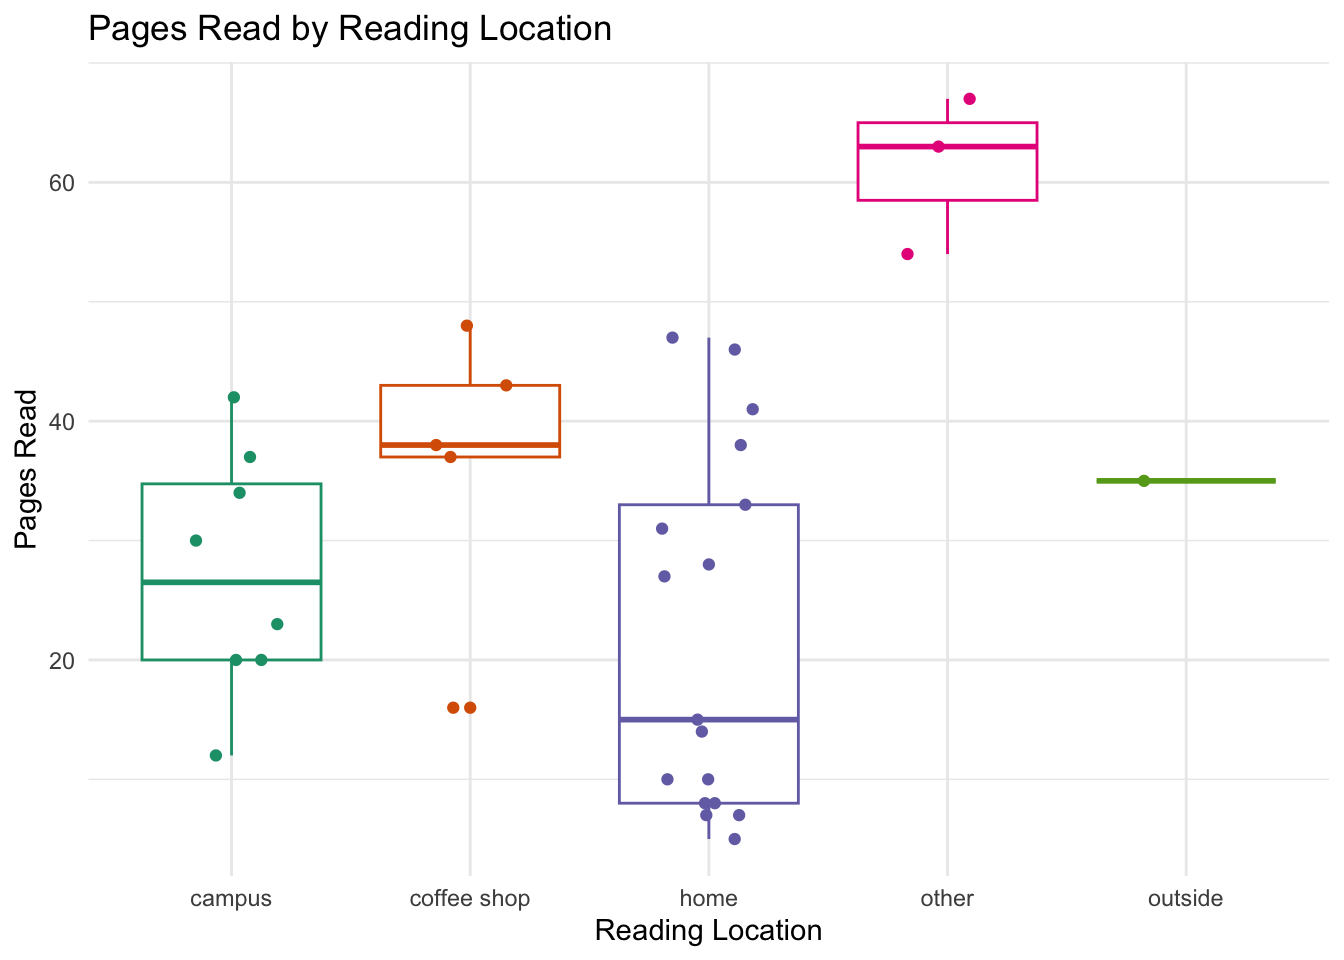
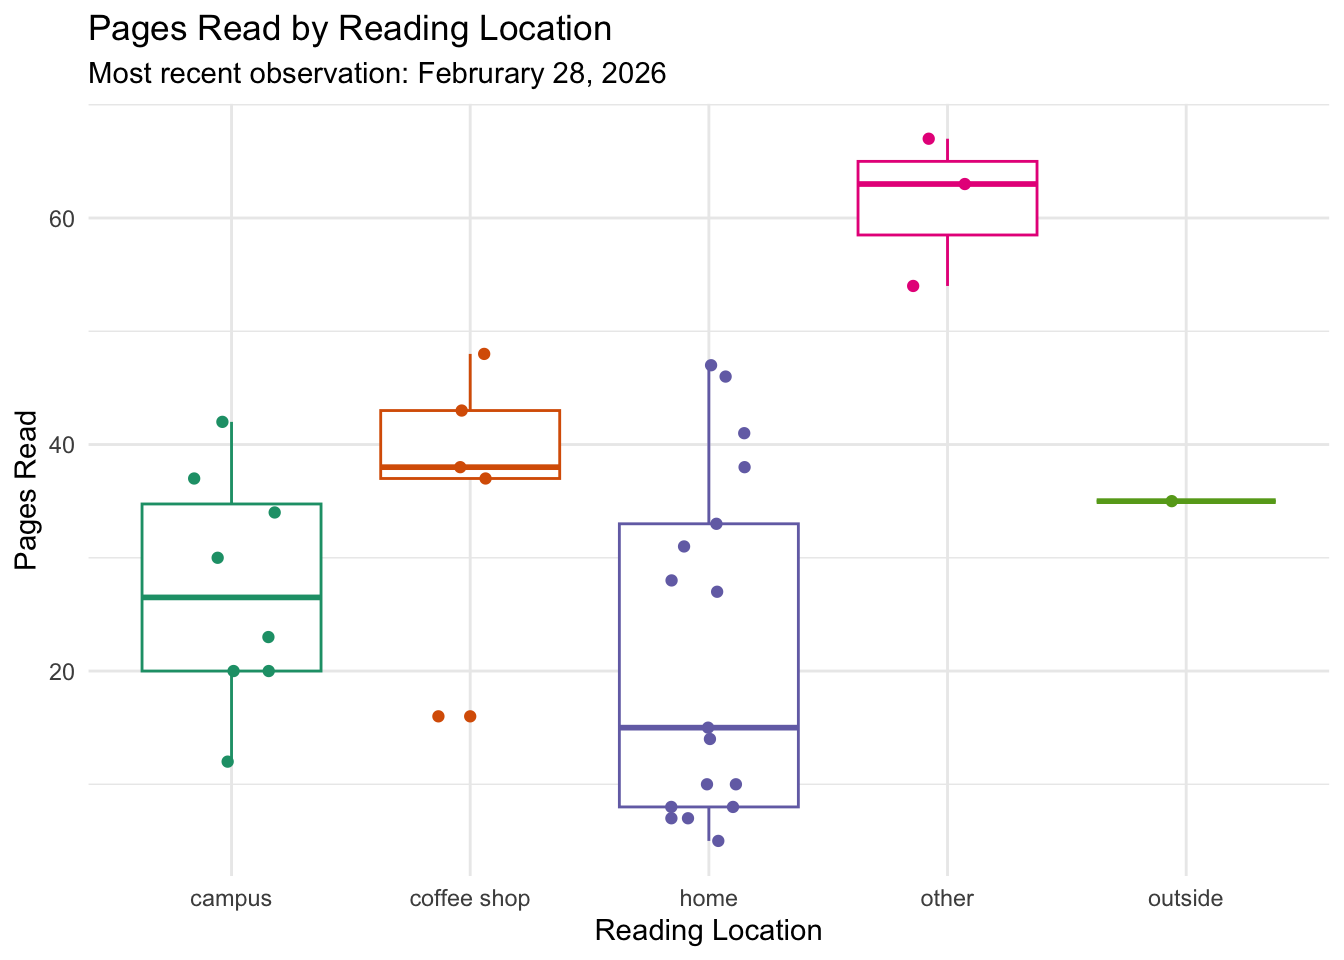
Creating informative captions for my continuous and categorical personal data visualizations

diff --git a/docs/code/index.html b/docs/code/index.html
@@ -87,9 +87,9 @@ pre > code.sourceCode > span > a:first-child::before { text-decoration: underlin
   <li><a href="#set-up" id="toc-set-up" class="nav-link active" data-scroll-target="#set-up">Set Up</a></li>
   <li><a href="#problem-1.-slough-soil-salinity" id="toc-problem-1.-slough-soil-salinity" class="nav-link" data-scroll-target="#problem-1.-slough-soil-salinity">Problem 1. Slough soil salinity</a>
   <ul class="collapse">
-  <li><a href="#a.-an-appropriate-test" id="toc-a.-an-appropriate-test" class="nav-link" data-scroll-target="#a.-an-appropriate-test">A. An appropriate test</a></li>
-  <li><a href="#b.-create-a-visualization" id="toc-b.-create-a-visualization" class="nav-link" data-scroll-target="#b.-create-a-visualization">B. Create a visualization</a></li>
-  <li><a href="#c.-check-your-assumptions-and-run-your-test" id="toc-c.-check-your-assumptions-and-run-your-test" class="nav-link" data-scroll-target="#c.-check-your-assumptions-and-run-your-test">C. Check your assumptions and run your test</a>
+  <li><a href="#a.-an-appropriate-test" id="toc-a.-an-appropriate-test" class="nav-link" data-scroll-target="#a.-an-appropriate-test">a. An appropriate test</a></li>
+  <li><a href="#b.-create-a-visualization" id="toc-b.-create-a-visualization" class="nav-link" data-scroll-target="#b.-create-a-visualization">b. Create a visualization</a></li>
+  <li><a href="#c.-check-your-assumptions-and-run-your-test" id="toc-c.-check-your-assumptions-and-run-your-test" class="nav-link" data-scroll-target="#c.-check-your-assumptions-and-run-your-test">c.&nbsp;Check your assumptions and run your test</a>
   <ul class="collapse">
   <li><a href="#check-for-linear-relationship-between-variables-and-monotonic-relationship-between-variables" id="toc-check-for-linear-relationship-between-variables-and-monotonic-relationship-between-variables" class="nav-link" data-scroll-target="#check-for-linear-relationship-between-variables-and-monotonic-relationship-between-variables">Check for linear relationship between variables and monotonic relationship between variables</a></li>
   <li><a href="#check-that-variables-are-continuous-and-normally-distributed" id="toc-check-that-variables-are-continuous-and-normally-distributed" class="nav-link" data-scroll-target="#check-that-variables-are-continuous-and-normally-distributed">Check that variables are continuous and normally distributed</a></li>
@@ -99,7 +99,15 @@ pre > code.sourceCode > span > a:first-child::before { text-decoration: underlin
   <li><a href="#e.-test-implications" id="toc-e.-test-implications" class="nav-link" data-scroll-target="#e.-test-implications">e. Test implications</a></li>
   <li><a href="#f.-double-check-your-work" id="toc-f.-double-check-your-work" class="nav-link" data-scroll-target="#f.-double-check-your-work">f.&nbsp;Double check your work</a></li>
   </ul></li>
-  <li><a href="#problem-2.-personal-data" id="toc-problem-2.-personal-data" class="nav-link" data-scroll-target="#problem-2.-personal-data">Problem 2. Personal Data</a></li>
+  <li><a href="#problem-2.-personal-data" id="toc-problem-2.-personal-data" class="nav-link" data-scroll-target="#problem-2.-personal-data">Problem 2. Personal Data</a>
+  <ul class="collapse">
+  <li><a href="#a.-updating-your-visualizations" id="toc-a.-updating-your-visualizations" class="nav-link" data-scroll-target="#a.-updating-your-visualizations">a. Updating your visualizations</a>
+  <ul class="collapse">
+  <li><a href="#visualization-of-reading-location-categorical-predictor-variable-vs-pages-read-response-variable" id="toc-visualization-of-reading-location-categorical-predictor-variable-vs-pages-read-response-variable" class="nav-link" data-scroll-target="#visualization-of-reading-location-categorical-predictor-variable-vs-pages-read-response-variable">Visualization of reading location (categorical predictor variable) vs pages read (response variable)</a></li>
+  <li><a href="#visualization-of-reading-duration-continuous-predictor-variable-vs-pages-read-response-variable" id="toc-visualization-of-reading-duration-continuous-predictor-variable-vs-pages-read-response-variable" class="nav-link" data-scroll-target="#visualization-of-reading-duration-continuous-predictor-variable-vs-pages-read-response-variable">Visualization of reading duration (continuous predictor variable) vs pages read (response variable)</a></li>
+  </ul></li>
+  <li><a href="#b.-captions" id="toc-b.-captions" class="nav-link" data-scroll-target="#b.-captions">b. Captions</a></li>
+  </ul></li>
   </ul>
 </nav>
 </div>
@@ -153,11 +161,11 @@ pre > code.sourceCode > span > a:first-child::before { text-decoration: underlin
 <section id="problem-1.-slough-soil-salinity" class="level1">
 <h1>Problem 1. Slough soil salinity</h1>
 <section id="a.-an-appropriate-test" class="level2">
-<h2 class="anchored" data-anchor-id="a.-an-appropriate-test">A. An appropriate test</h2>
+<h2 class="anchored" data-anchor-id="a.-an-appropriate-test">a. An appropriate test</h2>
 <p>The appropriate tests to determine the strength of the relationship between salinity and California pickleweed biomass are the Pearson’s correlation (r) test and Spearman’s rank correlation (p) test. The Pearson’s correlation is a parametric test that measures the strength of the relationship between salinity and biomass and assumes that observations are independent and both variables are continuous and normally distributed with a linear relationship. The Spearman rank correlation is non-parametric and measures the monotonic relationship between salinity and biomass for independent observations by evaluating whether the rank order of soil salinity values corresponds with the rank order of pickleweed biomass values (this test does not assume normality or a linear relationship).</p>
 </section>
 <section id="b.-create-a-visualization" class="level2">
-<h2 class="anchored" data-anchor-id="b.-create-a-visualization">B. Create a visualization</h2>
+<h2 class="anchored" data-anchor-id="b.-create-a-visualization">b. Create a visualization</h2>
 <div class="cell">
 <div class="code-copy-outer-scaffold"><div class="sourceCode cell-code" id="cb2"><pre class="sourceCode r code-with-copy"><code class="sourceCode r"><span id="cb2-1"><a href="#cb2-1" aria-hidden="true" tabindex="-1"></a><span class="co"># base layer: ggplot </span></span>
 <span id="cb2-2"><a href="#cb2-2" aria-hidden="true" tabindex="-1"></a><span class="fu">ggplot</span>(<span class="at">data =</span> salinity, <span class="co"># salinity data frame</span></span>
@@ -182,7 +190,7 @@ pre > code.sourceCode > span > a:first-child::before { text-decoration: underlin
 </div>
 </section>
 <section id="c.-check-your-assumptions-and-run-your-test" class="level2">
-<h2 class="anchored" data-anchor-id="c.-check-your-assumptions-and-run-your-test">C. Check your assumptions and run your test</h2>
+<h2 class="anchored" data-anchor-id="c.-check-your-assumptions-and-run-your-test">c.&nbsp;Check your assumptions and run your test</h2>
 <section id="check-for-linear-relationship-between-variables-and-monotonic-relationship-between-variables" class="level3">
 <h3 class="anchored" data-anchor-id="check-for-linear-relationship-between-variables-and-monotonic-relationship-between-variables">Check for linear relationship between variables and monotonic relationship between variables</h3>
 <div class="cell">
@@ -306,10 +314,14 @@ sample estimates:
 </section>
 <section id="problem-2.-personal-data" class="level1">
 <h1>Problem 2. Personal Data</h1>
+<section id="a.-updating-your-visualizations" class="level2">
+<h2 class="anchored" data-anchor-id="a.-updating-your-visualizations">a. Updating your visualizations</h2>
 <div class="cell">
 <div class="code-copy-outer-scaffold"><div class="sourceCode cell-code" id="cb10"><pre class="sourceCode r code-with-copy"><code class="sourceCode r"><span id="cb10-1"><a href="#cb10-1" aria-hidden="true" tabindex="-1"></a>my_clean_data <span class="ot">&lt;-</span> my_data <span class="sc">|&gt;</span> <span class="co"># create object my_clean_data from my_data</span></span>
 <span id="cb10-2"><a href="#cb10-2" aria-hidden="true" tabindex="-1"></a>  <span class="fu">clean_names</span>()</span></code></pre></div><button title="Copy to Clipboard" class="code-copy-button"><i class="bi"></i></button></div>
 </div>
+<section id="visualization-of-reading-location-categorical-predictor-variable-vs-pages-read-response-variable" class="level3">
+<h3 class="anchored" data-anchor-id="visualization-of-reading-location-categorical-predictor-variable-vs-pages-read-response-variable">Visualization of reading location (categorical predictor variable) vs pages read (response variable)</h3>
 <div class="cell">
 <div class="code-copy-outer-scaffold"><div class="sourceCode cell-code" id="cb11"><pre class="sourceCode r code-with-copy"><code class="sourceCode r"><span id="cb11-1"><a href="#cb11-1" aria-hidden="true" tabindex="-1"></a><span class="co"># base layer: ggplot </span></span>
 <span id="cb11-2"><a href="#cb11-2" aria-hidden="true" tabindex="-1"></a><span class="fu">ggplot</span>(<span class="at">data =</span> my_clean_data, <span class="co"># use clean data</span></span>
@@ -324,10 +336,11 @@ sample estimates:
 <span id="cb11-11"><a href="#cb11-11" aria-hidden="true" tabindex="-1"></a>             <span class="at">width =</span> <span class="fl">0.2</span>) <span class="sc">+</span> <span class="co"># narrowing width of jitter</span></span>
 <span id="cb11-12"><a href="#cb11-12" aria-hidden="true" tabindex="-1"></a><span class="fu">labs</span>(<span class="at">x =</span> <span class="st">"Reading Location"</span>, <span class="co"># x-axis title</span></span>
 <span id="cb11-13"><a href="#cb11-13" aria-hidden="true" tabindex="-1"></a>     <span class="at">y =</span> <span class="st">"Pages Read"</span>, <span class="co"># y-axis title</span></span>
-<span id="cb11-14"><a href="#cb11-14" aria-hidden="true" tabindex="-1"></a>     <span class="at">title =</span> <span class="st">"Pages Read by Reading Location"</span>) <span class="sc">+</span> <span class="co"># graph title</span></span>
-<span id="cb11-15"><a href="#cb11-15" aria-hidden="true" tabindex="-1"></a>   <span class="fu">scale_color_brewer</span>(<span class="at">palette =</span> <span class="st">"Dark2"</span>) <span class="sc">+</span> <span class="co"># use Dark2 color palette from colorbrewer project</span></span>
-<span id="cb11-16"><a href="#cb11-16" aria-hidden="true" tabindex="-1"></a>  <span class="fu">theme_minimal</span>() <span class="sc">+</span> <span class="co"># set theme different from default </span></span>
-<span id="cb11-17"><a href="#cb11-17" aria-hidden="true" tabindex="-1"></a>  <span class="fu">theme</span>(<span class="at">legend.position =</span> <span class="st">"none"</span>) <span class="co"># remove legend</span></span></code></pre></div><button title="Copy to Clipboard" class="code-copy-button"><i class="bi"></i></button></div>
+<span id="cb11-14"><a href="#cb11-14" aria-hidden="true" tabindex="-1"></a>     <span class="at">title =</span> <span class="st">"Pages Read by Reading Location"</span>, <span class="co"># graph title</span></span>
+<span id="cb11-15"><a href="#cb11-15" aria-hidden="true" tabindex="-1"></a>      <span class="at">subtitle =</span> <span class="st">"Most recent observation: Februrary 28, 2026"</span>) <span class="sc">+</span> <span class="co"># most recent date)</span></span>
+<span id="cb11-16"><a href="#cb11-16" aria-hidden="true" tabindex="-1"></a>   <span class="fu">scale_color_brewer</span>(<span class="at">palette =</span> <span class="st">"Dark2"</span>) <span class="sc">+</span> <span class="co"># use Dark2 color palette from colorbrewer project</span></span>
+<span id="cb11-17"><a href="#cb11-17" aria-hidden="true" tabindex="-1"></a>  <span class="fu">theme_minimal</span>() <span class="sc">+</span> <span class="co"># set theme different from default </span></span>
+<span id="cb11-18"><a href="#cb11-18" aria-hidden="true" tabindex="-1"></a>  <span class="fu">theme</span>(<span class="at">legend.position =</span> <span class="st">"none"</span>) <span class="co"># remove legend</span></span></code></pre></div><button title="Copy to Clipboard" class="code-copy-button"><i class="bi"></i></button></div>
 <div class="cell-output-display">
 <div>
 <figure class="figure">
@@ -336,6 +349,9 @@ sample estimates:
 </div>
 </div>
 </div>
+</section>
+<section id="visualization-of-reading-duration-continuous-predictor-variable-vs-pages-read-response-variable" class="level3">
+<h3 class="anchored" data-anchor-id="visualization-of-reading-duration-continuous-predictor-variable-vs-pages-read-response-variable">Visualization of reading duration (continuous predictor variable) vs pages read (response variable)</h3>
 <div class="cell">
 <div class="code-copy-outer-scaffold"><div class="sourceCode cell-code" id="cb12"><pre class="sourceCode r code-with-copy"><code class="sourceCode r"><span id="cb12-1"><a href="#cb12-1" aria-hidden="true" tabindex="-1"></a><span class="co">#base layer: ggplot </span></span>
 <span id="cb12-2"><a href="#cb12-2" aria-hidden="true" tabindex="-1"></a><span class="fu">ggplot</span>(<span class="at">data =</span> my_clean_data, <span class="co"># use my_clean_data</span></span>
@@ -347,8 +363,9 @@ sample estimates:
 <span id="cb12-8"><a href="#cb12-8" aria-hidden="true" tabindex="-1"></a>             <span class="at">alpha =</span> <span class="fl">0.7</span>) <span class="sc">+</span> <span class="co"># make points more transparent</span></span>
 <span id="cb12-9"><a href="#cb12-9" aria-hidden="true" tabindex="-1"></a>   <span class="fu">labs</span>(<span class="at">x =</span> <span class="st">"Reading Duration (minutes)"</span>, <span class="co"># x-axis title</span></span>
 <span id="cb12-10"><a href="#cb12-10" aria-hidden="true" tabindex="-1"></a>       <span class="at">y =</span> <span class="st">"Pages Read"</span>, <span class="co"># y-axis title</span></span>
-<span id="cb12-11"><a href="#cb12-11" aria-hidden="true" tabindex="-1"></a>       <span class="at">title =</span> <span class="st">"Longer Reading Sessions Lead to More Pages Read"</span>) <span class="sc">+</span> <span class="co"># descriptive title </span></span>
-<span id="cb12-12"><a href="#cb12-12" aria-hidden="true" tabindex="-1"></a>   <span class="fu">theme_bw</span>() <span class="co"># change theme from default</span></span></code></pre></div><button title="Copy to Clipboard" class="code-copy-button"><i class="bi"></i></button></div>
+<span id="cb12-11"><a href="#cb12-11" aria-hidden="true" tabindex="-1"></a>       <span class="at">title =</span> <span class="st">"Longer Reading Sessions Lead to More Pages Read"</span>, <span class="co"># graph title</span></span>
+<span id="cb12-12"><a href="#cb12-12" aria-hidden="true" tabindex="-1"></a>      <span class="at">subtitle =</span> <span class="st">"Most recent observation: Februrary 28, 2026"</span>) <span class="sc">+</span> <span class="co"># most recent date</span></span>
+<span id="cb12-13"><a href="#cb12-13" aria-hidden="true" tabindex="-1"></a>   <span class="fu">theme_bw</span>() <span class="co"># change theme from default</span></span></code></pre></div><button title="Copy to Clipboard" class="code-copy-button"><i class="bi"></i></button></div>
 <div class="cell-output-display">
 <div>
 <figure class="figure">
@@ -357,6 +374,13 @@ sample estimates:
 </div>
 </div>
 </div>
+</section>
+</section>
+<section id="b.-captions" class="level2">
+<h2 class="anchored" data-anchor-id="b.-captions">b. Captions</h2>
+<p>Figure 1. The distribution of pages read by reading location (campus, coffee shop, home, other, and outside) across reading sessions is represented by the boxplot. Each point represents a reading session. Reading sessions in “other” locations had the highest median pages read (around 63 pages), while home reading sessions showed the most variability and lowest median (around 15 pages).</p>
+<p>Figure 2. The relationship between reading duration (minutes) and pages read across all reading sessions is represented in a scatterplot. The most recent observation was February 28, 2026, and each blue point represents a reading session.</p>
+</section>
 </section>
 
 </main>
